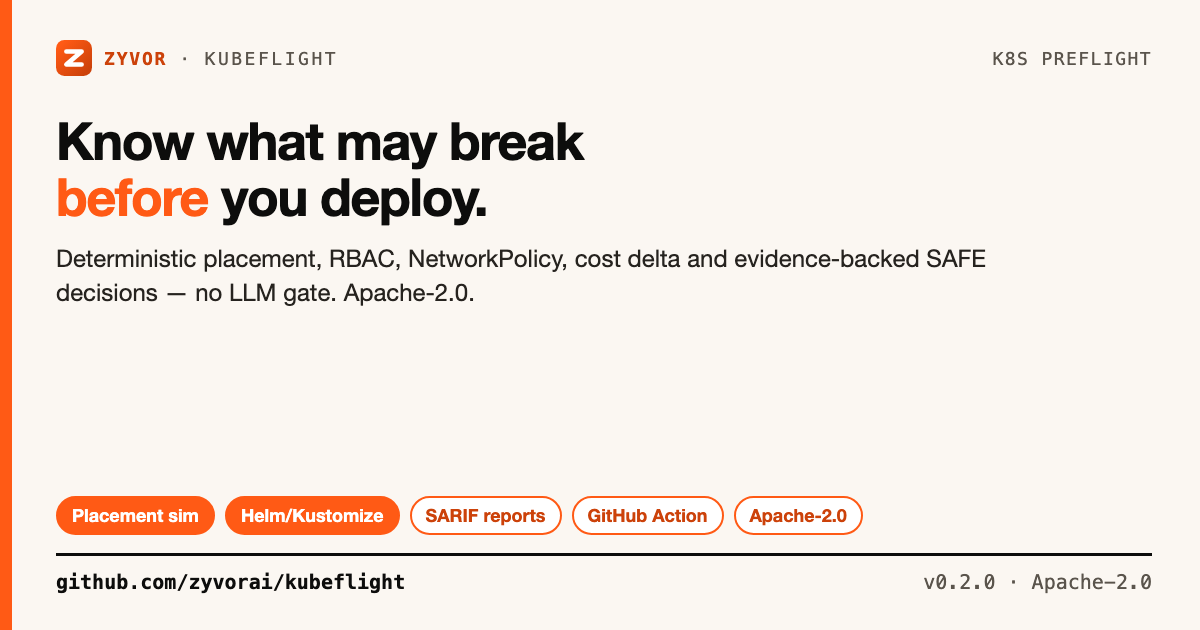
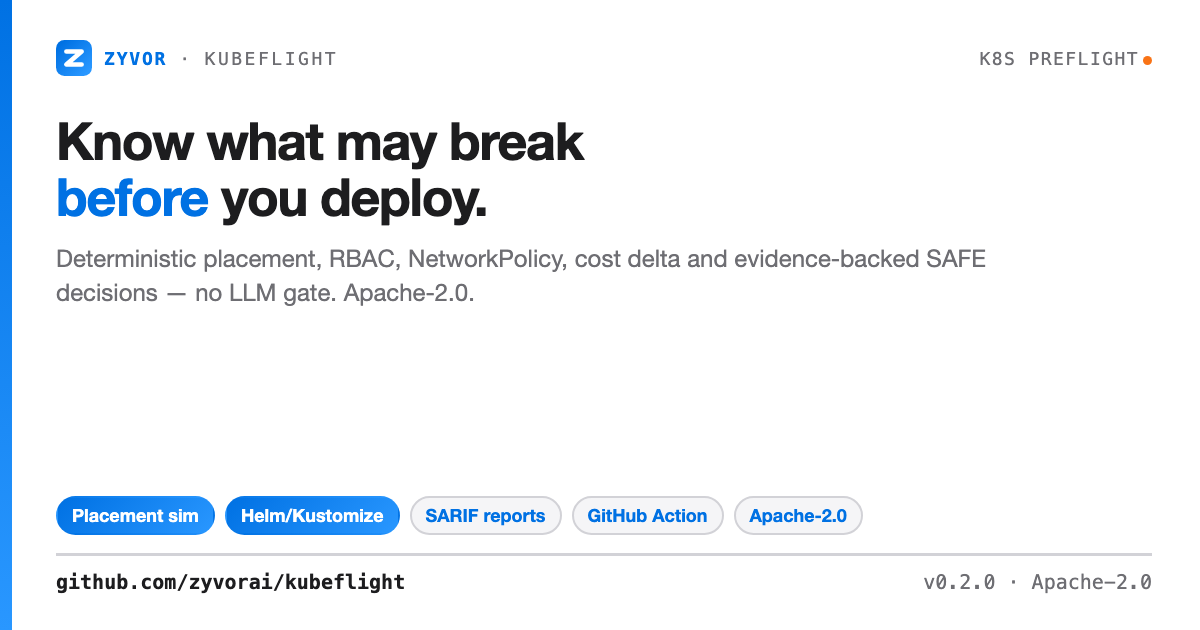
docs(social): restyle social cards to Apple.com system palette
Re-skin the existing social-card system (share card, 16:9 social card,
Zyvor mark) from the orange-on-warm palette to the Apple.com-style
palette already used by docs/stylesheets/apple-glass.css, so the social
assets align with the docs site rather than clashing with it. Blue
(#0071e3 -> #2997ff) is now the dominant color; #f97316 (this repo's
documented "Zyvor orange") appears exactly once per card as a small
accent dot. Copy/claims are untouched. Regenerated PNG/JPG via the
existing build-social-card.sh (Chrome headless + sips). README.md's
embedded hero image keeps its filename, so this is a drop-in refresh.

Changed region(s): [[0.0, 0.0, 0.9558, 1.0], [0.8017, 0.0603, 0.9558, 0.1206], [0.185, 0.0905, 0.2775, 0.1206]]

diff --git a/docs/social/kubeflight-social-card.html b/docs/social/kubeflight-social-card.html
@@ -4,23 +4,24 @@
 <meta charset="utf-8">
 <title>KubeFlight social card</title>
 <style>
-:root { --ink:#0d0d0c; --soft:#5a544c; --signal:#ff5a15; --deep:#cc420a; --line:#e7ded2; --warm:#fbf7f2; --pale:#fff1e9;
-  --blue:#2b5fd9; --green:#1f7a4d;
+:root { --ink:#1d1d1f; --soft:#6e6e73; --signal:#0071e3; --signal2:#2997ff; --deep:#0071e3; --line:#d2d2d7; --warm:#ffffff; --pale:#f5f5f7;
+  --blue:#0071e3; --green:#2997ff; --accent-orange:#f97316;
   --sans:'Helvetica Neue',Helvetica,Arial,sans-serif; --mono:'SF Mono',Menlo,Consolas,monospace; }
 * { box-sizing:border-box; }
 html,body { margin:0; padding:0; }
 body { width:1600px; height:900px; overflow:hidden; background:var(--warm); color:var(--ink); font-family:var(--sans); position:relative; }
-.bar { position:absolute; left:0; top:0; bottom:0; width:14px; background:var(--signal); }
+.bar { position:absolute; left:0; top:0; bottom:0; width:14px; background:linear-gradient(180deg,var(--signal),var(--signal2)); }
 .wrap { position:absolute; left:72px; right:64px; top:48px; bottom:40px; display:flex; flex-direction:column; }
 .top { display:flex; align-items:center; gap:14px; font-family:var(--mono); font-size:20px; letter-spacing:.14em; text-transform:uppercase; color:var(--soft); }
 .top img { height:40px; }
 .top b { color:var(--deep); letter-spacing:.1em; }
 .top .r { margin-left:auto; letter-spacing:.08em; }
+.top .dot { display:inline-block; width:10px; height:10px; border-radius:50%; background:var(--accent-orange); margin-left:5px; }
 h1 { margin:26px 0 0; font-size:68px; line-height:1.06; letter-spacing:-.025em; font-weight:700; max-width:1440px; }
 h1 em { font-style:normal; color:var(--signal); }
-.sub { margin:16px 0 0; font-size:27px; line-height:1.36; color:#26231f; max-width:1320px; }
+.sub { margin:16px 0 0; font-size:27px; line-height:1.36; color:var(--soft); max-width:1320px; }
 .flow { margin-top:34px; display:grid; grid-template-columns:repeat(5,1fr); gap:34px; }
-.step { position:relative; background:#fff; border:2.5px solid var(--c); border-radius:16px; padding:18px 20px 18px 24px; min-height:222px; }
+.step { position:relative; background:var(--pale); border:2.5px solid var(--c); border-radius:16px; padding:18px 20px 18px 24px; min-height:222px; }
 .step::before { content:""; position:absolute; left:0; top:0; bottom:0; width:9px; background:var(--c); border-radius:13px 0 0 13px; }
 .step:not(:last-child)::after { content:""; position:absolute; right:-31px; top:50%; width:0; height:0; margin-top:-11px;
   border-left:16px solid var(--soft); border-top:11px solid transparent; border-bottom:11px solid transparent; }
@@ -28,14 +29,14 @@ h1 em { font-style:normal; color:var(--signal); }
 .n { float:right; width:34px; height:34px; border-radius:50%; background:var(--c); color:#fff; font-weight:700; font-size:19px; line-height:34px; text-align:center; }
 .step h3 { margin:14px 0 8px; font-size:27px; line-height:1.14; letter-spacing:-.01em; }
 .step p { margin:0; font-size:20.5px; line-height:1.34; color:var(--soft); }
-.k { --c:var(--signal); } .a { --c:var(--ink); } .c { --c:var(--blue); } .o { --c:var(--green); } .o2 { --c:var(--deep); }
-.attr { margin-top:22px; display:flex; align-items:center; gap:16px; background:var(--ink); color:#f3ede4; border-radius:12px; padding:13px 22px; font-family:var(--mono); font-size:22px; white-space:nowrap; }
-.attr .tag { color:var(--signal); font-weight:700; letter-spacing:.1em; font-size:16px; }
-.attr .why { margin-left:auto; color:#a39a8d; font-size:15px; letter-spacing:.06em; text-transform:uppercase; }
+.k { --c:var(--signal); } .a { --c:var(--ink); } .c { --c:var(--blue); } .o { --c:var(--signal2); } .o2 { --c:var(--deep); }
+.attr { margin-top:22px; display:flex; align-items:center; gap:16px; background:var(--ink); color:#f5f5f7; border-radius:12px; padding:13px 22px; font-family:var(--mono); font-size:22px; white-space:nowrap; }
+.attr .tag { color:var(--signal2); font-weight:700; letter-spacing:.1em; font-size:16px; }
+.attr .why { margin-left:auto; color:#a1a1a6; font-size:15px; letter-spacing:.06em; text-transform:uppercase; }
 .chips { margin-top:auto; padding-top:22px; display:flex; flex-wrap:wrap; gap:10px; }
-.chip { font-size:20px; font-weight:700; padding:5px 14px; border-radius:20px; background:var(--signal); color:#fff; letter-spacing:.02em; border:2px solid var(--signal); }
-.chip.g { background:#fff; color:var(--deep); border:2px solid var(--signal); }
-.foot { margin-top:18px; padding-top:14px; border-top:3px solid var(--ink); display:flex; align-items:center; font-family:var(--mono); font-size:22px; color:var(--soft); }
+.chip { font-size:20px; font-weight:700; padding:5px 14px; border-radius:20px; background:linear-gradient(135deg,var(--signal),var(--signal2)); color:#fff; letter-spacing:.02em; border:2px solid transparent; }
+.chip.g { background:#fff; color:var(--deep); border:2px solid var(--line); }
+.foot { margin-top:18px; padding-top:14px; border-top:3px solid var(--line); display:flex; align-items:center; font-family:var(--mono); font-size:22px; color:var(--soft); }
 .foot b { color:var(--ink); }
 .foot .r { margin-left:auto; }
 </style>
@@ -43,7 +44,7 @@ h1 em { font-style:normal; color:var(--signal); }
 <body>
 <div class="bar"></div>
 <div class="wrap">
-  <div class="top"><img src="zyvor-mark.svg" alt=""><b>Zyvor</b><span>&middot;</span><span>KubeFlight</span><span class="r">K8s preflight</span></div>
+  <div class="top"><img src="zyvor-mark.svg" alt=""><b>Zyvor</b><span>&middot;</span><span>KubeFlight</span><span class="r">K8s preflight<span class="dot" aria-hidden="true"></span></span></div>
   <h1>Know what may break <em>before</em> you deploy.</h1>
   <p class="sub">Local-first Kubernetes preflight: render manifests, compare baseline and cluster snapshot, simulate scheduling and return an evidence-backed decision.</p>
   <div class="flow">

diff --git a/docs/social/kubeflight-share-card.html b/docs/social/kubeflight-share-card.html
@@ -4,24 +4,25 @@
 <meta charset="utf-8">
 <title>KubeFlight share card</title>
 <style>
-:root { --ink:#0d0d0c; --soft:#5a544c; --signal:#ff5a15; --deep:#cc420a; --warm:#fbf7f2;
+:root { --ink:#1d1d1f; --soft:#6e6e73; --signal:#0071e3; --signal2:#2997ff; --deep:#0071e3; --warm:#ffffff; --accent-orange:#f97316;
   --sans:'Helvetica Neue',Helvetica,Arial,sans-serif; --mono:'SF Mono',Menlo,Consolas,monospace; }
 * { box-sizing:border-box; }
 html,body { margin:0; padding:0; }
 body { width:1200px; height:630px; overflow:hidden; background:var(--warm); color:var(--ink); font-family:var(--sans); position:relative; }
-.bar { position:absolute; left:0; top:0; bottom:0; width:12px; background:var(--signal); }
+.bar { position:absolute; left:0; top:0; bottom:0; width:12px; background:linear-gradient(180deg,var(--signal),var(--signal2)); }
 .wrap { position:absolute; left:56px; right:48px; top:40px; bottom:36px; display:flex; flex-direction:column; }
 .top { display:flex; align-items:center; gap:12px; font-family:var(--mono); font-size:18px; letter-spacing:.14em; text-transform:uppercase; color:var(--soft); }
 .top img { height:36px; }
 .top b { color:var(--deep); letter-spacing:.1em; }
 .top .r { margin-left:auto; letter-spacing:.08em; }
+.top .dot { display:inline-block; width:9px; height:9px; border-radius:50%; background:var(--accent-orange); margin-left:4px; }
 h1 { margin:36px 0 0; font-size:52px; line-height:1.08; letter-spacing:-.025em; font-weight:700; max-width:1080px; }
 h1 em { font-style:normal; color:var(--signal); }
-.sub { margin:18px 0 0; font-size:24px; line-height:1.4; color:#26231f; max-width:980px; }
+.sub { margin:18px 0 0; font-size:24px; line-height:1.4; color:var(--soft); max-width:980px; }
 .chips { margin-top:auto; display:flex; flex-wrap:wrap; gap:10px; padding-bottom:18px; }
-.chip { font-size:18px; font-weight:700; padding:6px 14px; border-radius:20px; background:var(--signal); color:#fff; border:2px solid var(--signal); }
-.chip.g { background:#fff; color:var(--deep); border:2px solid var(--signal); }
-.foot { padding-top:14px; border-top:3px solid var(--ink); display:flex; align-items:center; font-family:var(--mono); font-size:20px; color:var(--soft); }
+.chip { font-size:18px; font-weight:700; padding:6px 14px; border-radius:20px; background:linear-gradient(135deg,var(--signal),var(--signal2)); color:#fff; border:2px solid transparent; }
+.chip.g { background:#f5f5f7; color:var(--deep); border:2px solid #d2d2d7; }
+.foot { padding-top:14px; border-top:3px solid #d2d2d7; display:flex; align-items:center; font-family:var(--mono); font-size:20px; color:var(--soft); }
 .foot b { color:var(--ink); }
 .foot .r { margin-left:auto; }
 </style>
@@ -29,7 +30,7 @@ h1 em { font-style:normal; color:var(--signal); }
 <body>
 <div class="bar"></div>
 <div class="wrap">
-  <div class="top"><img src="zyvor-mark.svg" alt=""><b>Zyvor</b><span>&middot;</span><span>KubeFlight</span><span class="r">K8s preflight</span></div>
+  <div class="top"><img src="zyvor-mark.svg" alt=""><b>Zyvor</b><span>&middot;</span><span>KubeFlight</span><span class="r">K8s preflight<span class="dot" aria-hidden="true"></span></span></div>
   <h1>Know what may break<br><em>before</em> you deploy.</h1>
   <p class="sub">Deterministic placement, RBAC, NetworkPolicy, cost delta and evidence-backed SAFE decisions — no LLM gate. Apache-2.0.</p>
   <div class="chips">

diff --git a/docs/social/README.md b/docs/social/README.md
@@ -10,3 +10,14 @@ Needs Google Chrome and macOS `sips` (already on a Mac); nothing is installed.
 
 Every claim on the social card is already sourced in the project README and docs.
 Licence wording follows `LICENSE`: Apache License 2.0.
+
+## Palette
+
+Apple.com system palette, matching this site's own `docs/stylesheets/apple-glass.css`:
+
+- Light: `#ffffff` / `#f5f5f7` background, `#d2d2d7` hairline, `#1d1d1f` ink, `#6e6e73` secondary text.
+- Blue (dominant brand color): gradient `#0071e3` → `#2997ff`.
+- Dark surfaces (attribution bar, footnotes): `#1d1d1f` background, `#f5f5f7` text.
+- Zyvor orange `#f97316` appears exactly once per card, as a small accent dot — never as a background or primary color.
+- Zyvor "Z" mark (`zyvor-mark.svg`): blue gradient `#0071e3` → `#2997ff`.
+- Type: Helvetica Neue (sans) and SF Mono/Menlo (mono), unchanged.
